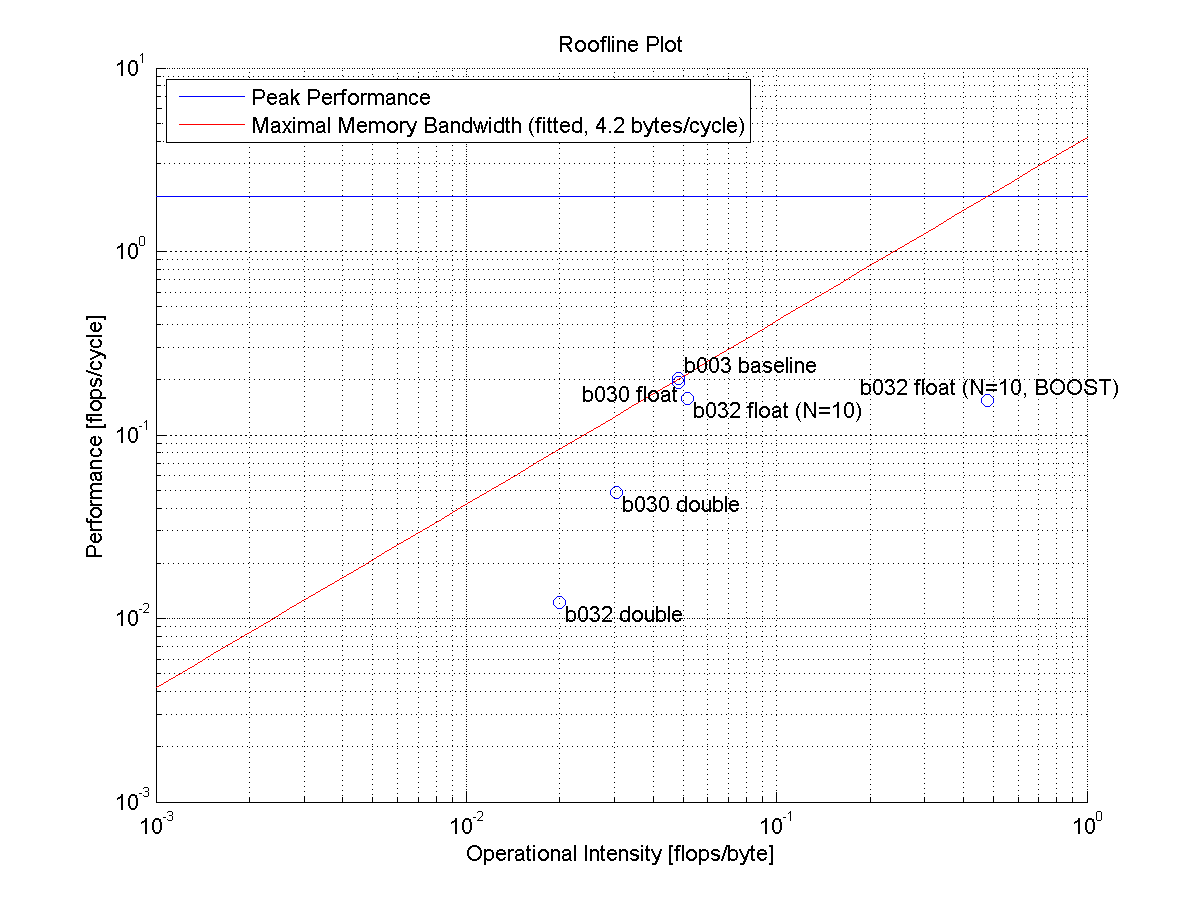
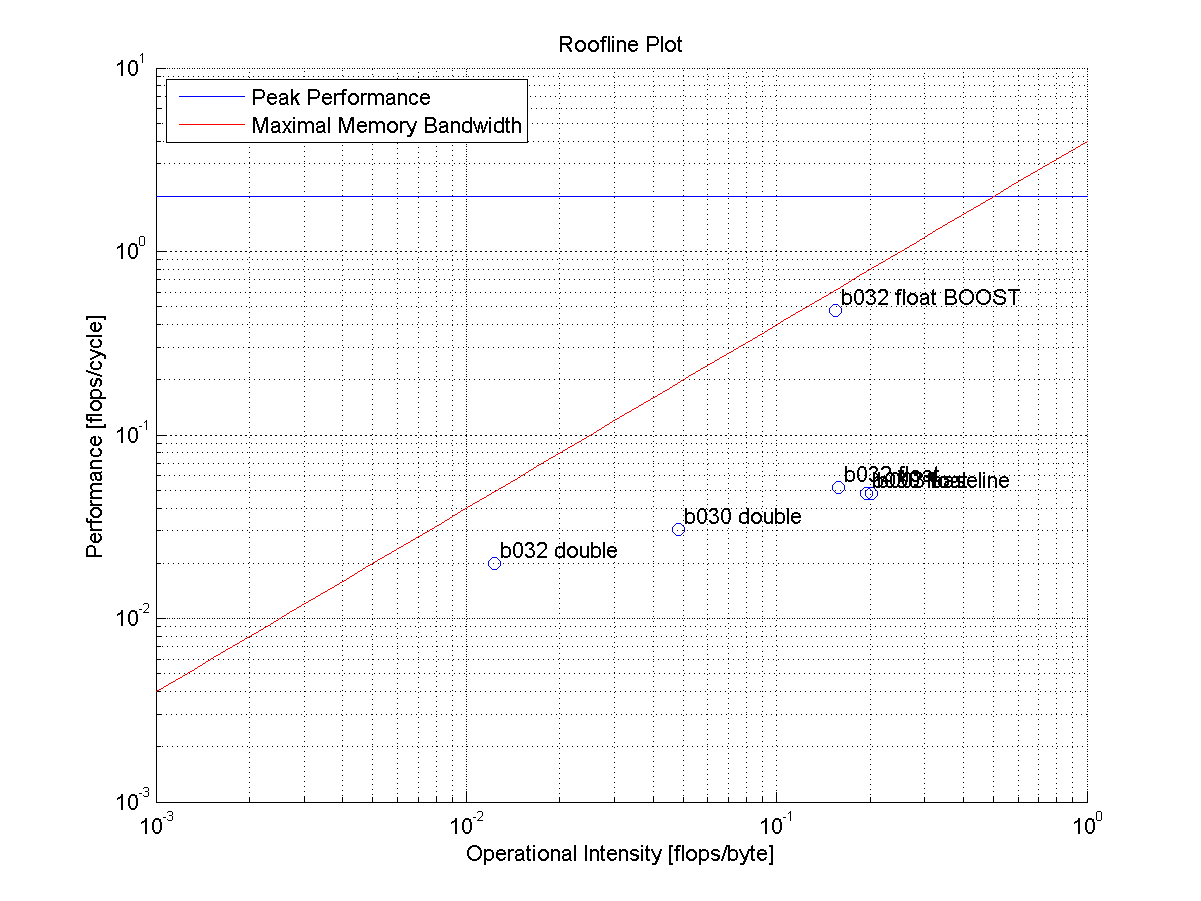
Fixed mistake in old roofline plot, added new roofline plot.

diff --git a/analysis/performance_b040.m b/analysis/performance_b040.m
@@ -2,6 +2,7 @@
 % compiled with gcc 4.5.2, -O3, cygwin64
 data_points_single = [];
 data_points_double = [];
+roofline_points = [];
 
 %% Performance Analysis 100k full, single precision
 num_cycles = 3356005034; % CPU_CLK_UNHALTED.REF_TSC
@@ -13,7 +14,11 @@ num_flops = 72000108 + 12000018 + 18000027;
 runtime = 1.019; % seconds
 bandwidth_sec = 1.229; % GB/s
 
+bandwidth_cycle = (runtime*bandwidth_sec*1000000000)/num_cycles;
 flops_cycle = num_flops/num_cycles;
+intensity = flops_cycle/bandwidth_cycle;
+roofline_points = [roofline_points; intensity, flops_cycle];
+
 data_points_single = [data_points_single; 1638, flops_cycle];
 
 %% Performance Analysis 100k full, double precision
@@ -26,7 +31,11 @@ num_flops = 816001224 + 0 + 384000576;
 runtime = 9.553; % seconds
 bandwidth_sec = 2.176; % GB/s
 
+bandwidth_cycle = (runtime*bandwidth_sec*1000000000)/num_cycles;
 flops_cycle = num_flops/num_cycles;
+intensity = flops_cycle/bandwidth_cycle;
+roofline_points = [roofline_points; intensity, flops_cycle];
+
 data_points_double = [data_points_double; 1638, flops_cycle];
 
 %% Performance Analysis [dataset user 405] 734 movies, user 405, single precision
@@ -39,7 +48,11 @@ num_flops = 78000117 + 6000009 + 18000027;
 runtime = 0.771; % seconds
 bandwidth_sec = 1.568; % GB/s
 
+bandwidth_cycle = (runtime*bandwidth_sec*1000000000)/num_cycles;
 flops_cycle = num_flops/num_cycles;
+intensity = flops_cycle/bandwidth_cycle;
+roofline_points = [roofline_points; intensity, flops_cycle];
+
 data_points_single = [data_points_single; 734, flops_cycle];
 
 %% Performance Analysis [dataset user 405] 734 movies, user 405, double precision
@@ -52,7 +65,11 @@ num_flops = 438000657 + 0 + 222000333;
 runtime = 4.953; % seconds
 bandwidth_sec = 2.238; % GB/s
 
+bandwidth_cycle = (runtime*bandwidth_sec*1000000000)/num_cycles;
 flops_cycle = num_flops/num_cycles;
+intensity = flops_cycle/bandwidth_cycle;
+roofline_points = [roofline_points; intensity, flops_cycle];
+
 data_points_double = [data_points_double; 734, flops_cycle];
 
 %% Performance Analysis [dataset 512] 272 movies, user 1-10, single precision
@@ -65,7 +82,11 @@ num_flops = 204000306 + 30000045 + 102000153;
 runtime = 2.925; % seconds
 bandwidth_sec = 1.699; % GB/s
 
+bandwidth_cycle = (runtime*bandwidth_sec*1000000000)/num_cycles;
 flops_cycle = num_flops/num_cycles;
+intensity = flops_cycle/bandwidth_cycle;
+roofline_points = [roofline_points; intensity, flops_cycle];
+
 data_points_single = [data_points_single; 272, flops_cycle];
 
 %% Performance Analysis [dataset 512] 272 movies, user 1-10, double precision
@@ -78,7 +99,11 @@ num_flops = 2814004221 + 0 + 1356002034;
 runtime = 30.253; % seconds
 bandwidth_sec = 2.237; % GB/s
 
+bandwidth_cycle = (runtime*bandwidth_sec*1000000000)/num_cycles;
 flops_cycle = num_flops/num_cycles;
+intensity = flops_cycle/bandwidth_cycle;
+roofline_points = [roofline_points; intensity, flops_cycle];
+
 data_points_double = [data_points_double; 272, flops_cycle];
 
 %% Performance Analysis 32 movies, user 1-100, single precision
@@ -91,7 +116,11 @@ num_flops = 54000081 + 12000018 + 12000018;
 runtime = 2.372; % seconds
 bandwidth_sec = 0.935; % GB/s
 
+bandwidth_cycle = (runtime*bandwidth_sec*1000000000)/num_cycles;
 flops_cycle = num_flops/num_cycles;
+intensity = flops_cycle/bandwidth_cycle;
+%roofline_points = [roofline_points; intensity, flops_cycle];
+
 data_points_single = [data_points_single; 32, flops_cycle];
 
 %% Performance Analysis 32 movies, user 1-100, double precision
@@ -104,15 +133,19 @@ num_flops = 768001152 + 0 + 294000441;
 runtime = 6.195; % seconds
 bandwidth_sec = 0.04; % GB/s
 
+bandwidth_cycle = (runtime*bandwidth_sec*1000000000)/num_cycles;
 flops_cycle = num_flops/num_cycles;
+intensity = flops_cycle/bandwidth_cycle;
+%roofline_points = [roofline_points; intensity, flops_cycle];
+
 data_points_double = [data_points_double; 32, flops_cycle];
-%% Plotting
+%% Perf Plot
 plot(data_points_single(:,1), data_points_single(:,2),'-b', 'LineWidth',2);
 hold on; grid on;
 plot(data_points_double(:,1), data_points_double(:,2),'-r', 'LineWidth',2);
 
 fontsize = 14;
-title('B040 Performance for different Numbers of Movies', 'fontsize', fontsize);
+title('B040 Performance for different Numbers of Movies');
 legend('float','double', 'fontsize', fontsize);
 xlabel('Number of Movies in Dataset', 'fontsize', fontsize)
 ylabel('Performance [flops/cycle]', 'fontsize', fontsize)
@@ -120,4 +153,42 @@ ylabel('Performance [flops/cycle]', 'fontsize', fontsize)
 set(gca,'XTick',[32, 272, 734, 1638]);
 set(gca,'fontsize', fontsize);
 print(gcf, '-r150', 'performance_b040.png', '-dpng');
+hold off;
+close all;
 
+%% Roofline Plot
+figure;
+hold on; grid on
+x = logspace(-2,0);
+
+maxBytesCycle = 4;
+% flops / cycle
+peakPerf = 2;
+oneOpCycle = 1;
+
+% Scalar peak performance
+ys = ones(length(x),1).*peakPerf;
+loglog(x,ys,'-b');
+
+% memory bandwidth
+yb = x.*maxBytesCycle;
+loglog(x,yb,'r');
+
+% measurements
+loglog(roofline_points(:,1), roofline_points(:,2), 'ob');
+%text(roofline_points(1,1), roofline_points(1,2),{' 1038, float'},'VerticalAlignment','middle','HorizontalAlignment','left', 'fontsize', fontsize);
+%text(roofline_points(2,1), roofline_points(2,2),{' 1038, double'},'VerticalAlignment','top', 'HorizontalAlignment','right','fontsize', fontsize);
+%text(roofline_points(3,1), roofline_points(3,2),{' 732, float'},'VerticalAlignment','middle','HorizontalAlignment','left', 'fontsize', fontsize);
+%text(roofline_points(4,1), roofline_points(4,2),{' 732, double'},'VerticalAlignment','bottom','HorizontalAlignment','right', 'fontsize', fontsize);
+%text(roofline_points(5,1), roofline_points(5,2),{' 272, float'},'VerticalAlignment','top','HorizontalAlignment','center', 'fontsize', fontsize);
+%text(roofline_points(6,1), roofline_points(6,2),{' 272, double'},'VerticalAlignment','bottom','HorizontalAlignment','left', 'fontsize', fontsize);
+
+title('Roofline Plot for B040','fontsize', fontsize);
+legend('Peak Performance','Maximal Memory Bandwidth','Location','northwest');
+xlabel('Operational Intensity [flops/byte]', 'fontsize', fontsize)
+ylabel('Performance [flops/cycle]', 'fontsize', fontsize)
+set(gca,'XScale','log')
+set(gca,'YScale','log')
+set(gca,'fontsize', fontsize);
+print(gcf, '-r150', 'roofline_b040.png', '-dpng');
+hold off;

diff --git a/analysis/roofline_single_vs_double.m b/analysis/roofline_single_vs_double.m
@@ -3,7 +3,7 @@ hold on; grid on
 x = logspace(-3,0);
 
 
-bytesCycle = 4.2;
+bytesCycle = 4;
 % flops / cycle
 peakPerf = 2;
 oneOpCycle = 1;
@@ -31,8 +31,10 @@ bandwidthCycle = bytes/cycles;
 opsCycle = flops/cycles;
 intensity = opsCycle/bandwidthCycle;
 
-loglog(opsCycle, intensity, 'ob');
-text(opsCycle,intensity,{' b003 baseline'},'VerticalAlignment','bottom');
+%loglog(opsCycle, intensity, 'ob');
+%text(opsCycle,intensity,{' b003 baseline'},'VerticalAlignment','bottom');
+loglog(intensity, opsCycle, 'ob');
+text(intensity,opsCycle,{' b003 baseline'},'VerticalAlignment','bottom');
 
 %% b030 single precision
 cycles = 6100009150;
@@ -47,9 +49,10 @@ bandwidthCycle = bytes/cycles;
 opsCycle = flops/cycles;
 intensity = opsCycle/bandwidthCycle;
 
-loglog(opsCycle, intensity, 'ob');
-text(opsCycle,intensity,{' b030 float'},'VerticalAlignment','top','HorizontalAlignment', 'right');
-
+%loglog(opsCycle, intensity, 'ob');
+%text(opsCycle,intensity,{' b003 baseline'},'VerticalAlignment','bottom');
+loglog(intensity, opsCycle, 'ob');
+text(intensity,opsCycle,{' b030 float'},'VerticalAlignment','bottom');
 %% b030 double precision
 cycles = 62842094263;
 % #total flops = FP_COMP_OPS_EXE.SSE_SCALAR_DOUBLE +
@@ -63,9 +66,10 @@ bandwidthCycle = bytes/cycles;
 opsCycle = flops/cycles;
 intensity = opsCycle/bandwidthCycle;
 
-loglog(opsCycle, intensity, 'ob');
-text(opsCycle,intensity,{' b030 double'},'VerticalAlignment','top');
-
+%loglog(opsCycle, intensity, 'ob');
+%text(opsCycle,intensity,{' b003 baseline'},'VerticalAlignment','bottom');
+loglog(intensity, opsCycle, 'ob');
+text(intensity,opsCycle,{' b030 double'},'VerticalAlignment','bottom');
 %% b032 single precision repeated
 cycles = 54856082284;
 % #total flops = FP_COMP_OPS_EXE.SSE_SCALAR_DOUBLE +
@@ -79,9 +83,10 @@ bandwidthCycle = bytes/cycles;
 opsCycle = flops/cycles;
 intensity = opsCycle/bandwidthCycle;
 
-loglog(opsCycle, intensity, 'ob');
-text(opsCycle,intensity,{' b032 float (N=10)'},'VerticalAlignment','top');
-
+%loglog(opsCycle, intensity, 'ob');
+%text(opsCycle,intensity,{' b003 baseline'},'VerticalAlignment','bottom');
+loglog(intensity, opsCycle, 'ob');
+text(intensity,opsCycle,{' b032 float'},'VerticalAlignment','bottom');
 %% b032 single precision repeated with DAI_RECOMMENDER_BOOST
 cycles = 5796008694;
 % #total flops = FP_COMP_OPS_EXE.SSE_SCALAR_DOUBLE +
@@ -95,9 +100,10 @@ bandwidthCycle = bytes/cycles;
 opsCycle = flops/cycles;
 intensity = opsCycle/bandwidthCycle;
 
-loglog(opsCycle, intensity, 'ob');
-text(opsCycle,intensity,{' b032 float (N=10, BOOST)'},'VerticalAlignment','bottom','HorizontalAlignment','center');
-
+%loglog(opsCycle, intensity, 'ob');
+%text(opsCycle,intensity,{' b003 baseline'},'VerticalAlignment','bottom');
+loglog(intensity, opsCycle, 'ob');
+text(intensity,opsCycle,{' b032 float BOOST'},'VerticalAlignment','bottom');
 %% b032 double precision
 cycles = 63334095001;
 % #total flops = FP_COMP_OPS_EXE.SSE_SCALAR_DOUBLE +
@@ -111,13 +117,14 @@ bandwidthCycle = bytes/cycles;
 opsCycle = flops/cycles;
 intensity = opsCycle/bandwidthCycle;
 
-loglog(opsCycle, intensity, 'ob');
-text(opsCycle,intensity,{' b032 double'},'VerticalAlignment','top');
-
+%loglog(opsCycle, intensity, 'ob');
+%text(opsCycle,intensity,{' b003 baseline'},'VerticalAlignment','bottom');
+loglog(intensity, opsCycle, 'ob');
+text(intensity,opsCycle,{' b032 double'},'VerticalAlignment','bottom');
 %%
 set(gca,'XScale','log')
 set(gca,'YScale','log')
-legend('Peak Performance', 'Maximal Memory Bandwidth (fitted, 4.2 bytes/cycle)','Location','northwest')
+legend('Peak Performance', 'Maximal Memory Bandwidth','Location','northwest')
 title('Roofline Plot')
 xlabel('Operational Intensity [flops/byte]')
 ylabel('Performance [flops/cycle]')

diff --git a/analysis/flops_per_message.m b/analysis/flops_per_message.m
@@ -68,7 +68,7 @@ bandwidth_GB_sec = 1.293;
 
 data = [data;data_points, num_flops/num_messages];
 data_points = data_points + 1;
-builds = [builds, {'B042'}];
+builds = [builds, {'B040'}];
 
 %% Plot styling
 figure; hold on; grid on;
